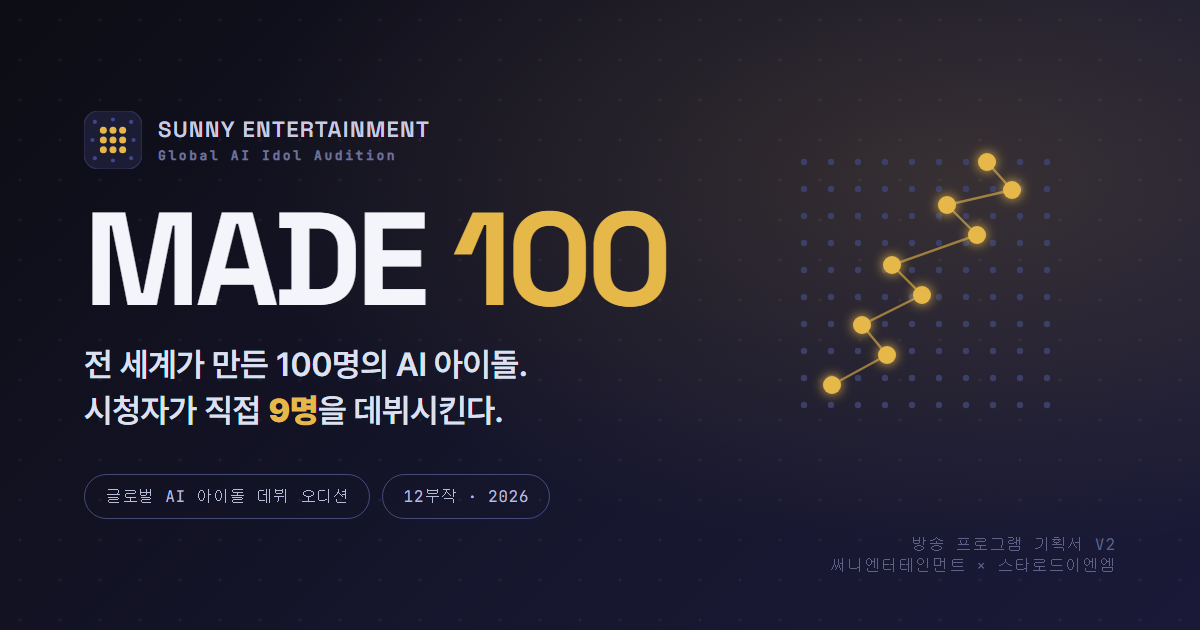
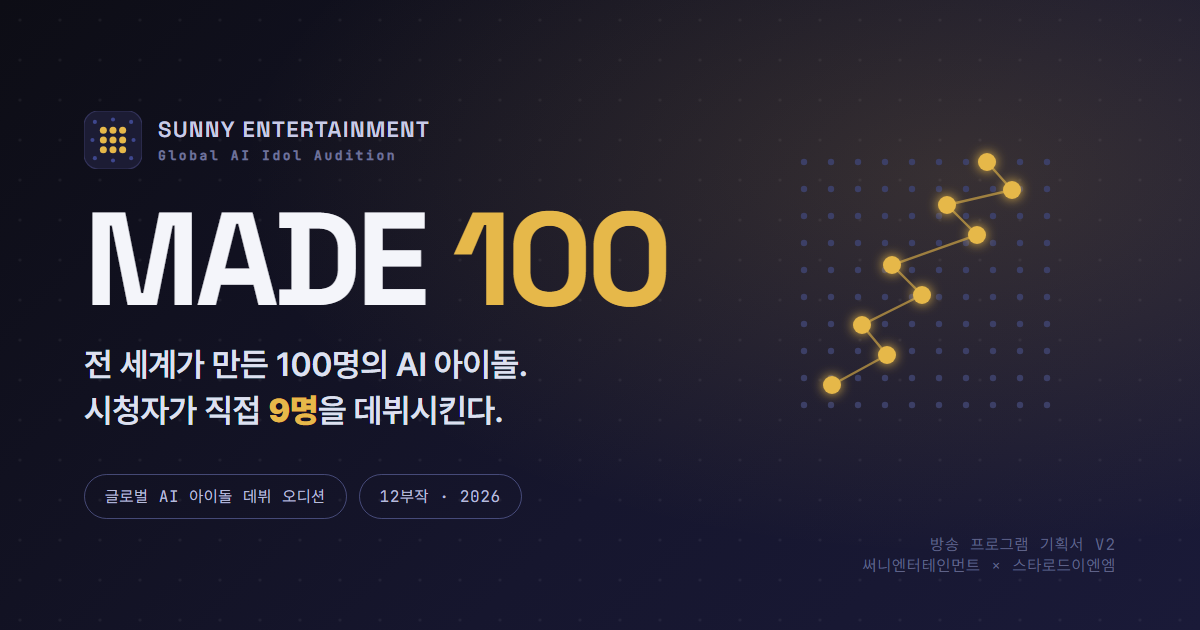
fix: 한글 폰트 fallback 추가 (mono 라벨 시스템폰트 깨짐 수정)

Changed region(s): [[0.0925, 0.754, 0.4625, 0.8143], [0.7092, 0.8444, 0.925, 0.9048]]

diff --git a/index.html b/index.html
@@ -43,7 +43,7 @@
   * { margin: 0; padding: 0; box-sizing: border-box; }
   html { scroll-behavior: smooth; }
   body { background: var(--bg-primary); color: var(--fg-primary); font-family: "Pretendard", system-ui, sans-serif; line-height: 1.62; -webkit-font-smoothing: antialiased; text-wrap: pretty; }
-  .mono { font-family: "JetBrains Mono", monospace; letter-spacing: 0.10em; text-transform: uppercase; font-size: 0.72rem; color: var(--fg-muted); }
+  .mono { font-family: "JetBrains Mono", "Pretendard", sans-serif; letter-spacing: 0.10em; text-transform: uppercase; font-size: 0.72rem; color: var(--fg-muted); }
   .display { font-family: "Space Grotesk", "Pretendard", sans-serif; }
   .wrap { max-width: 1080px; margin: 0 auto; padding: 0 var(--s6); }
   @media (max-width: 600px) { .wrap { padding: 0 var(--s3); } }
@@ -55,28 +55,28 @@
   .hero-bg { position: absolute; inset: 0; width: 100%; height: 100%; pointer-events: none; }
   .hero .wrap { position: relative; z-index: 1; }
   .hero .mono { color: oklch(68% 0.04 255); }
-  .hero h1 { font-family: "Space Grotesk", sans-serif; font-size: clamp(3rem, 1.6rem + 6vw, 7rem); font-weight: 700; line-height: 0.95; letter-spacing: -0.03em; margin: var(--s3) 0 var(--s2); }
+  .hero h1 { font-family: "Space Grotesk", "Pretendard", sans-serif; font-size: clamp(3rem, 1.6rem + 6vw, 7rem); font-weight: 700; line-height: 0.95; letter-spacing: -0.03em; margin: var(--s3) 0 var(--s2); }
   .hero .tagline { font-size: clamp(1.15rem, 0.9rem + 0.7vw, 1.6rem); color: oklch(83% 0.03 255); font-weight: 500; letter-spacing: -0.01em; }
   .hero .sub { margin-top: var(--s3); max-width: 54ch; color: oklch(72% 0.02 255); font-size: 1.02rem; }
   .hero-meta { display: flex; gap: var(--s1); flex-wrap: wrap; margin-top: var(--s6); }
-  .hero-meta .badge { font-family: "JetBrains Mono", monospace; font-size: 0.7rem; letter-spacing: 0.05em; padding: 7px 13px; border: 1px solid oklch(60% 0.04 255 / 0.45); border-radius: var(--radius-pill); color: oklch(85% 0.03 255); }
+  .hero-meta .badge { font-family: "JetBrains Mono", "Pretendard", sans-serif; font-size: 0.7rem; letter-spacing: 0.05em; padding: 7px 13px; border: 1px solid oklch(60% 0.04 255 / 0.45); border-radius: var(--radius-pill); color: oklch(85% 0.03 255); }
 
   /* ---- BRAND ---- */
   .brand { display: flex; align-items: center; gap: 13px; margin-bottom: var(--s4); }
   .brand .logomark { width: 48px; height: 48px; flex: none; }
-  .brand .brand-tx { font-family: "Space Grotesk", sans-serif; font-weight: 600; font-size: 1rem; letter-spacing: 0.04em; color: oklch(88% 0.025 255); }
-  .brand .brand-tx small { display: block; font-family: "JetBrains Mono", monospace; font-size: 0.6rem; letter-spacing: 0.16em; color: oklch(58% 0.045 255); text-transform: uppercase; margin-top: 3px; }
+  .brand .brand-tx { font-family: "Space Grotesk", "Pretendard", sans-serif; font-weight: 600; font-size: 1rem; letter-spacing: 0.04em; color: oklch(88% 0.025 255); }
+  .brand .brand-tx small { display: block; font-family: "JetBrains Mono", "Pretendard", sans-serif; font-size: 0.6rem; letter-spacing: 0.16em; color: oklch(58% 0.045 255); text-transform: uppercase; margin-top: 3px; }
 
   /* ---- KEY VISUAL ---- */
   .kv { margin-top: var(--s8); }
   .kv svg { width: 100%; height: auto; display: block; }
-  .kv-cap { margin-top: var(--s3); font-family: "JetBrains Mono", monospace; font-size: 0.72rem; letter-spacing: 0.08em; color: oklch(64% 0.045 255); text-transform: uppercase; text-align: center; }
+  .kv-cap { margin-top: var(--s3); font-family: "JetBrains Mono", "Pretendard", sans-serif; font-size: 0.72rem; letter-spacing: 0.08em; color: oklch(64% 0.045 255); text-transform: uppercase; text-align: center; }
 
   /* ---- SECTION HEADS ---- */
   .sec-head { display: flex; align-items: center; gap: var(--s2); margin-bottom: var(--s6); }
   .sec-icon { display: inline-flex; padding: 8px; background: var(--accent-soft); border-radius: var(--radius-md); flex: none; }
   .sec-icon svg { display: block; width: 22px; height: 22px; stroke: var(--accent); fill: none; stroke-width: 1.6; stroke-linecap: round; stroke-linejoin: round; }
-  .sec-num { font-family: "JetBrains Mono", monospace; font-size: 0.82rem; color: var(--accent); font-weight: 500; }
+  .sec-num { font-family: "JetBrains Mono", "Pretendard", sans-serif; font-size: 0.82rem; color: var(--accent); font-weight: 500; }
   h2.display { font-size: clamp(1.7rem, 1.2rem + 1.7vw, 2.7rem); font-weight: 600; line-height: 1.08; letter-spacing: -0.02em; }
   h3 { font-family: "Space Grotesk", "Pretendard", sans-serif; font-size: 1.22rem; font-weight: 600; letter-spacing: -0.01em; margin: var(--s4) 0 var(--s2); }
   h4 { font-size: 1.02rem; font-weight: 600; color: var(--fg-primary); margin: var(--s3) 0 var(--s1); }
@@ -97,11 +97,11 @@
   @media (max-width: 760px) { .grid-2, .grid-3 { grid-template-columns: 1fr; } }
   .card { background: var(--bg-card); border: 1px solid var(--line); border-radius: var(--radius-md); padding: var(--s3); box-shadow: var(--shadow-sm); }
   .card h3, .card h4 { margin-top: 0; }
-  .kpi { font-family: "Space Grotesk", sans-serif; font-size: 2.3rem; font-weight: 700; letter-spacing: -0.02em; color: var(--accent); line-height: 1; }
+  .kpi { font-family: "Space Grotesk", "Pretendard", sans-serif; font-size: 2.3rem; font-weight: 700; letter-spacing: -0.02em; color: var(--accent); line-height: 1; }
   .kpi-label { margin-top: var(--s1); font-size: 0.9rem; color: var(--fg-muted); }
   table { width: 100%; border-collapse: collapse; margin: var(--s3) 0; font-size: 0.92rem; }
   th, td { text-align: left; padding: 11px 14px; border-bottom: 1px solid var(--line); vertical-align: top; }
-  th { font-family: "JetBrains Mono", monospace; font-size: 0.7rem; letter-spacing: 0.05em; text-transform: uppercase; color: var(--fg-muted); font-weight: 500; }
+  th { font-family: "JetBrains Mono", "Pretendard", sans-serif; font-size: 0.7rem; letter-spacing: 0.05em; text-transform: uppercase; color: var(--fg-muted); font-weight: 500; }
   td { color: var(--fg-secondary); }
   td strong { color: var(--fg-primary); }
   tr:last-child td { border-bottom: none; }
@@ -114,12 +114,12 @@
   .toc a { display: flex; gap: var(--s2); padding: 11px 13px; border: 1px solid var(--line); border-radius: var(--radius-sm); text-decoration: none; color: var(--fg-secondary); transition: background var(--ease) 200ms, border-color var(--ease) 200ms; font-size: 0.9rem; }
   .toc a:hover { background: var(--accent-soft); border-color: var(--accent); }
   .toc a:focus-visible { outline: 2px solid var(--accent); outline-offset: 2px; }
-  .toc .n { font-family: "JetBrains Mono", monospace; color: var(--accent); font-size: 0.82rem; }
+  .toc .n { font-family: "JetBrains Mono", "Pretendard", sans-serif; color: var(--accent); font-size: 0.82rem; }
   .ep { border: 1px solid var(--line); border-radius: var(--radius-md); padding: var(--s3); margin-bottom: var(--s2); background: var(--bg-card); }
   .ep-head { display: flex; align-items: baseline; gap: var(--s2); flex-wrap: wrap; margin-bottom: var(--s1); }
-  .ep-no { font-family: "Space Grotesk", sans-serif; font-size: 1.5rem; font-weight: 700; color: var(--accent); letter-spacing: -0.02em; }
+  .ep-no { font-family: "Space Grotesk", "Pretendard", sans-serif; font-size: 1.5rem; font-weight: 700; color: var(--accent); letter-spacing: -0.02em; }
   .ep-title { font-family: "Space Grotesk","Pretendard",sans-serif; font-size: 1.1rem; font-weight: 600; }
-  .ep-tag { font-family: "JetBrains Mono", monospace; font-size: 0.66rem; letter-spacing: 0.05em; padding: 3px 9px; border-radius: var(--radius-pill); background: var(--bg-secondary); color: var(--fg-muted); }
+  .ep-tag { font-family: "JetBrains Mono", "Pretendard", sans-serif; font-size: 0.66rem; letter-spacing: 0.05em; padding: 3px 9px; border-radius: var(--radius-pill); background: var(--bg-secondary); color: var(--fg-muted); }
   .ep-tag.live { background: var(--accent); color: #fff; }
   .ep p { margin-bottom: var(--s1); font-size: 0.94rem; }
   .ep .hook { font-size: 0.88rem; color: var(--accent-deep); font-weight: 500; margin-top: var(--s1); }
@@ -129,8 +129,8 @@
   footer h2 { color: var(--bg-primary); }
   footer a { color: var(--accent-soft); }
   .pill-row { display: flex; gap: var(--s1); flex-wrap: wrap; margin: var(--s2) 0; }
-  .pill { font-family: "JetBrains Mono", monospace; font-size: 0.68rem; letter-spacing: 0.04em; background: var(--bg-secondary); color: var(--fg-secondary); padding: 5px 11px; border-radius: var(--radius-pill); }
-  .divider-label { font-family: "JetBrains Mono", monospace; font-size: 0.72rem; letter-spacing: 0.12em; text-transform: uppercase; color: var(--fg-muted); margin: var(--s6) 0 var(--s2); padding-bottom: var(--s1); border-bottom: 1px solid var(--line); }
+  .pill { font-family: "JetBrains Mono", "Pretendard", sans-serif; font-size: 0.68rem; letter-spacing: 0.04em; background: var(--bg-secondary); color: var(--fg-secondary); padding: 5px 11px; border-radius: var(--radius-pill); }
+  .divider-label { font-family: "JetBrains Mono", "Pretendard", sans-serif; font-size: 0.72rem; letter-spacing: 0.12em; text-transform: uppercase; color: var(--fg-muted); margin: var(--s6) 0 var(--s2); padding-bottom: var(--s1); border-bottom: 1px solid var(--line); }
   @media (prefers-reduced-motion: reduce) { * { transition: none !important; scroll-behavior: auto !important; } }
 </style>
 </head>
@@ -212,7 +212,7 @@
         </defs>
 
         <!-- 좌측 라벨 -->
-        <text x="20" y="34" font-family="JetBrains Mono, monospace" font-size="15" letter-spacing="2" fill="#8A8FB5">100 AI IDOLS — 글로벌 공모</text>
+        <text x="20" y="34" font-family="JetBrains Mono, Pretendard, sans-serif" font-size="15" letter-spacing="2" fill="#8A8FB5">100 AI IDOLS — 글로벌 공모</text>
         <!-- 100인 풀 그리드 (10×10 = 100) -->
         <rect x="20" y="50" width="440" height="440" fill="url(#pool100)" />
 
@@ -233,9 +233,9 @@
         <path d="M 612 262 L 626 270 L 612 278 Z" fill="#E6B84A" />
 
         <!-- 우측 — THE NINE -->
-        <text x="780" y="100" text-anchor="middle" font-family="JetBrains Mono, monospace" font-size="15" letter-spacing="2" fill="#8A8FB5">데뷔조</text>
-        <text x="780" y="312" text-anchor="middle" font-family="Space Grotesk, sans-serif" font-size="248" font-weight="700" fill="#E6B84A" letter-spacing="-8">9</text>
-        <text x="780" y="382" text-anchor="middle" font-family="Space Grotesk, sans-serif" font-size="46" font-weight="700" fill="#F2F3F8" letter-spacing="3">THE NINE</text>
+        <text x="780" y="100" text-anchor="middle" font-family="JetBrains Mono, Pretendard, sans-serif" font-size="15" letter-spacing="2" fill="#8A8FB5">데뷔조</text>
+        <text x="780" y="312" text-anchor="middle" font-family="Space Grotesk, Pretendard, sans-serif" font-size="248" font-weight="700" fill="#E6B84A" letter-spacing="-8">9</text>
+        <text x="780" y="382" text-anchor="middle" font-family="Space Grotesk, Pretendard, sans-serif" font-size="46" font-weight="700" fill="#F2F3F8" letter-spacing="3">THE NINE</text>
         <text x="780" y="424" text-anchor="middle" font-family="Pretendard, sans-serif" font-size="20" fill="#9FA3C4">남성 9인조 글로벌 보이그룹</text>
         <text x="780" y="456" text-anchor="middle" font-family="Pretendard, sans-serif" font-size="17" fill="#6E7299">9개국 · 1국 1명</text>
       </svg>
@@ -346,7 +346,7 @@
         <g fill="none" stroke="#3A49B8" stroke-width="2.4" stroke-linecap="round" stroke-linejoin="round">
           <path d="M104 80v24l16 7 16-7V80" /><path d="M104 80l16-7 16 7-16 7Z" />
         </g>
-        <text x="120" y="180" text-anchor="middle" font-family="Space Grotesk, sans-serif" font-size="20" font-weight="700" fill="#14141C">STEP 1 · 공모</text>
+        <text x="120" y="180" text-anchor="middle" font-family="Space Grotesk, Pretendard, sans-serif" font-size="20" font-weight="700" fill="#14141C">STEP 1 · 공모</text>
         <text x="120" y="206" text-anchor="middle" font-family="Pretendard, sans-serif" font-size="14.5" fill="#5A5A66">100명 모집 — 글로벌 공모전</text>
         <!-- STEP 2 -->
         <circle cx="420" cy="92" r="56" fill="#EEF1FE" stroke="#5B6BD8" stroke-width="2" />
@@ -354,14 +354,14 @@
           <rect x="402" y="74" width="9" height="20" rx="1.5"/><rect x="415.5" y="66" width="9" height="28" rx="1.5"/><rect x="429" y="80" width="9" height="14" rx="1.5"/>
           <line x1="402" y1="102" x2="438" y2="102"/>
         </g>
-        <text x="420" y="180" text-anchor="middle" font-family="Space Grotesk, sans-serif" font-size="20" font-weight="700" fill="#14141C">STEP 2 · 서바이벌</text>
+        <text x="420" y="180" text-anchor="middle" font-family="Space Grotesk, Pretendard, sans-serif" font-size="20" font-weight="700" fill="#14141C">STEP 2 · 서바이벌</text>
         <text x="420" y="206" text-anchor="middle" font-family="Pretendard, sans-serif" font-size="14.5" fill="#5A5A66">12주간 경쟁 — 100 → 11명</text>
         <!-- STEP 3 -->
         <circle cx="720" cy="92" r="56" fill="#FBF3DF" stroke="#E6B84A" stroke-width="2" />
         <g fill="none" stroke="#A9802A" stroke-width="2.4" stroke-linecap="round" stroke-linejoin="round">
           <path d="M720 70l4.5 9.2 10.2 1.5-7.4 7.2 1.8 10.1L720 104l-9.1 4.7 1.8-10.1-7.4-7.2 10.2-1.5Z"/>
         </g>
-        <text x="720" y="180" text-anchor="middle" font-family="Space Grotesk, sans-serif" font-size="20" font-weight="700" fill="#14141C">STEP 3 · 데뷔</text>
+        <text x="720" y="180" text-anchor="middle" font-family="Space Grotesk, Pretendard, sans-serif" font-size="20" font-weight="700" fill="#14141C">STEP 3 · 데뷔</text>
         <text x="720" y="206" text-anchor="middle" font-family="Pretendard, sans-serif" font-size="14.5" fill="#5A5A66">THE NINE 9명 데뷔</text>
       </svg>
       <figcaption>공모로 100명을 모으고, 12주 서바이벌을 거쳐, 9명이 데뷔한다</figcaption>
@@ -386,22 +386,22 @@
         <!-- DRAMA 3 (뒤) -->
         <g>
           <rect x="220" y="200" width="540" height="110" rx="14" fill="#E4E7F4" stroke="#C7CCE4" stroke-width="1.5" />
-          <text x="252" y="240" font-family="JetBrains Mono, monospace" font-size="13" letter-spacing="1.5" fill="#7B80A6">DRAMA 3</text>
-          <text x="252" y="270" font-family="Space Grotesk, sans-serif" font-size="22" font-weight="700" fill="#2A2A3C">시청자의 선택</text>
+          <text x="252" y="240" font-family="JetBrains Mono, Pretendard, sans-serif" font-size="13" letter-spacing="1.5" fill="#7B80A6">DRAMA 3</text>
+          <text x="252" y="270" font-family="Space Grotesk, Pretendard, sans-serif" font-size="22" font-weight="700" fill="#2A2A3C">시청자의 선택</text>
           <text x="252" y="294" font-family="Pretendard, sans-serif" font-size="14" fill="#5A5A6E">전 세계 창작물 중 사랑할 9명을 직접 데뷔시킨다</text>
         </g>
         <!-- DRAMA 2 (가운데) -->
         <g>
           <rect x="150" y="105" width="540" height="110" rx="14" fill="#EFF1FB" stroke="#B9C0E6" stroke-width="1.5" />
-          <text x="182" y="145" font-family="JetBrains Mono, monospace" font-size="13" letter-spacing="1.5" fill="#6770A8">DRAMA 2</text>
-          <text x="182" y="175" font-family="Space Grotesk, sans-serif" font-size="22" font-weight="700" fill="#222238">크리에이터의 서사</text>
+          <text x="182" y="145" font-family="JetBrains Mono, Pretendard, sans-serif" font-size="13" letter-spacing="1.5" fill="#6770A8">DRAMA 2</text>
+          <text x="182" y="175" font-family="Space Grotesk, Pretendard, sans-serif" font-size="22" font-weight="700" fill="#222238">크리에이터의 서사</text>
           <text x="182" y="199" font-family="Pretendard, sans-serif" font-size="14" fill="#54546A">AI 뒤의 인간 — 부모가 자식을 키우는 진짜 감정</text>
         </g>
         <!-- DRAMA 1 (앞) -->
         <g>
           <rect x="80" y="10" width="540" height="110" rx="14" fill="#1C1C34" stroke="#3A3A60" stroke-width="1.5" />
-          <text x="112" y="50" font-family="JetBrains Mono, monospace" font-size="13" letter-spacing="1.5" fill="#E6B84A">DRAMA 1</text>
-          <text x="112" y="80" font-family="Space Grotesk, sans-serif" font-size="22" font-weight="700" fill="#F4F5FA">AI 아이돌의 진화</text>
+          <text x="112" y="50" font-family="JetBrains Mono, Pretendard, sans-serif" font-size="13" letter-spacing="1.5" fill="#E6B84A">DRAMA 1</text>
+          <text x="112" y="80" font-family="Space Grotesk, Pretendard, sans-serif" font-size="22" font-weight="700" fill="#F4F5FA">AI 아이돌의 진화</text>
           <text x="112" y="104" font-family="Pretendard, sans-serif" font-size="14" fill="#A6AAC8">1화의 어설픔에서 12화의 완성까지 — 성장 그 자체가 콘텐츠</text>
         </g>
       </svg>
@@ -486,7 +486,7 @@
     <figure class="figure">
       <svg viewBox="0 0 720 430" role="img" aria-label="응모 1000팀에서 데뷔조 9명까지 줄어드는 퍼널">
         <!-- 퍼널 세그먼트 -->
-        <g font-family="Space Grotesk, sans-serif" font-weight="700" text-anchor="middle">
+        <g font-family="Space Grotesk, Pretendard, sans-serif" font-weight="700" text-anchor="middle">
           <polygon points="40,8 680,8 624,58 96,58" fill="#DFE3F4" />
           <text x="360" y="42" font-size="22" fill="#3A3A4C">1,000+ 팀 응모</text>
           <polygon points="100,66 620,66 580,116 140,116" fill="#CBD2EE" />
@@ -503,7 +503,7 @@
           <text x="360" y="390" font-size="20" fill="#14141C">THE NINE · 9</text>
         </g>
         <!-- 단계 화살표 -->
-        <g fill="#9AA0C2" font-family="JetBrains Mono, monospace" font-size="11">
+        <g fill="#9AA0C2" font-family="JetBrains Mono, Pretendard, sans-serif" font-size="11">
           <text x="700" y="42" text-anchor="end" fill="#9AA0C2">공모</text>
           <text x="700" y="216" text-anchor="end" fill="#9AA0C2">서바이벌</text>
           <text x="700" y="390" text-anchor="end" fill="#A9802A">데뷔</text>
@@ -611,7 +611,7 @@
           stroke-dasharray="245 490" stroke-dashoffset="0" transform="rotate(-90 160 100)" stroke-linecap="butt" />
         <circle cx="160" cy="100" r="78" fill="none" stroke="#E6B84A" stroke-width="26"
           stroke-dasharray="245 490" stroke-dashoffset="-245" transform="rotate(-90 160 100)" stroke-linecap="butt" />
-        <text x="160" y="94" text-anchor="middle" font-family="Space Grotesk, sans-serif" font-size="30" font-weight="700" fill="#14141C">50:50</text>
+        <text x="160" y="94" text-anchor="middle" font-family="Space Grotesk, Pretendard, sans-serif" font-size="30" font-weight="700" fill="#14141C">50:50</text>
         <text x="160" y="116" text-anchor="middle" font-family="Pretendard, sans-serif" font-size="13" fill="#6E6E80">최종 점수</text>
         <!-- 범례 -->
         <g font-family="Pretendard, sans-serif" font-size="15">
@@ -724,7 +724,7 @@
           <text x="170" y="154">댄서</text><text x="380" y="155">리더</text><text x="590" y="154">래퍼</text>
           <text x="170" y="224">댄서</text><text x="380" y="224">비주얼</text><text x="590" y="224">막내</text>
         </g>
-        <text x="380" y="266" text-anchor="middle" font-family="Space Grotesk, sans-serif" font-size="17" font-weight="700" fill="#A9802A" letter-spacing="2">THE NINE — 9 MEMBERS</text>
+        <text x="380" y="266" text-anchor="middle" font-family="Space Grotesk, Pretendard, sans-serif" font-size="17" font-weight="700" fill="#A9802A" letter-spacing="2">THE NINE — 9 MEMBERS</text>
       </svg>
       <figcaption>메인·리드 보컬 2 · 댄서 2 · 래퍼 2 · 비주얼 1 · 막내 1 · 리더 — 9개국 1국 1명</figcaption>
     </figure>

diff --git a/og.html b/og.html
@@ -16,13 +16,13 @@
   .bg { position: absolute; inset: 0; z-index: 1; }
   .brand { display: flex; align-items: center; gap: 16px; margin-bottom: 30px; }
   .brand .tx { font-family: "Space Grotesk", sans-serif; font-weight: 600; font-size: 22px; letter-spacing: 0.06em; color: #C8CBE6; }
-  .brand .tx small { display: block; font-family: "JetBrains Mono", monospace; font-size: 13px; letter-spacing: 0.2em; color: #6E7299; margin-top: 4px; }
+  .brand .tx small { display: block; font-family: "JetBrains Mono", "Pretendard", sans-serif; font-size: 13px; letter-spacing: 0.2em; color: #6E7299; margin-top: 4px; }
   h1 { font-family: "Space Grotesk", sans-serif; font-size: 132px; font-weight: 700; letter-spacing: -0.04em; line-height: 0.92; }
   h1 .gold { color: #E6B84A; }
   .tagline { margin-top: 22px; font-size: 33px; font-weight: 600; color: #DDE0F0; line-height: 1.4; letter-spacing: -0.01em; }
   .meta { margin-top: 40px; display: flex; gap: 12px; }
-  .meta span { font-family: "JetBrains Mono", monospace; font-size: 16px; letter-spacing: 0.04em; padding: 11px 20px; border: 1px solid rgba(120,128,200,0.5); border-radius: 999px; color: #B7BBDA; }
-  .credit { position: absolute; bottom: 54px; right: 84px; z-index: 2; font-family: "JetBrains Mono", monospace; font-size: 16px; letter-spacing: 0.06em; color: #5E6288; text-align: right; }
+  .meta span { font-family: "JetBrains Mono", "Pretendard", sans-serif; font-size: 16px; letter-spacing: 0.04em; padding: 11px 20px; border: 1px solid rgba(120,128,200,0.5); border-radius: 999px; color: #B7BBDA; }
+  .credit { position: absolute; bottom: 54px; right: 84px; z-index: 2; font-family: "JetBrains Mono", "Pretendard", sans-serif; font-size: 16px; letter-spacing: 0.06em; color: #5E6288; text-align: right; }
 </style>
 </head>
 <body>
